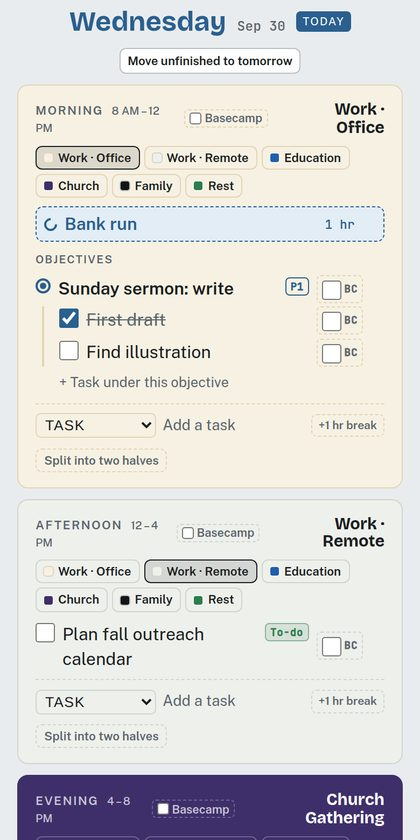
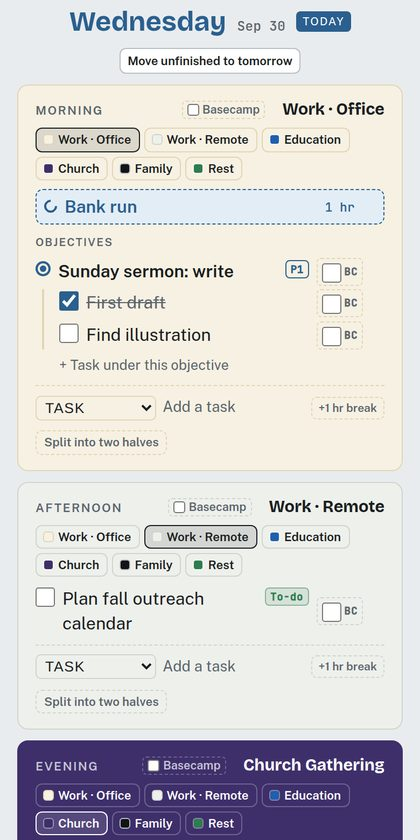
Remove block hours from block headers
Claude-Session: https://claude.ai/code/session_018fTMap8quA4yoNv84oKPib

Changed region(s): [[0.031, 0.1238, 0.9595, 1.0], [0.7738, 0.4643, 0.8976, 0.5262], [0.0619, 0.7429, 0.0929, 0.7738]]

diff --git a/app.js b/app.js
@@ -124,7 +124,7 @@
           <div class="bbody">${listHTML(hf,`${base}-${h}`,readOnly)}</div>
         </div>`).join("");
       return `<div class="block is-split" data-date="${date}" data-b="${b}">
-        <div class="bhead"><span class="bname">${label} · split <span class="bhrs">${HOURS[b]}</span></span>${shareBox(blk.share,readOnly,true)}${readOnly?"":`<button class="split-btn" data-act="merge">Merge halves</button>`}</div>
+        <div class="bhead"><span class="bname">${label} · split</span>${shareBox(blk.share,readOnly,true)}${readOnly?"":`<button class="split-btn" data-act="merge">Merge halves</button>`}</div>
         ${calHTML(date,b)}
         <div class="halves">${halves}</div>
       </div>`;
@@ -134,7 +134,7 @@
     const kept=readOnly?"":(n?`${n} item${n>1?"s":""} kept for later`:"Protected time");
     const canSplit=!readOnly&&(!mode||SPLITTABLE.includes(mode));
     return `<div class="block" data-date="${date}" data-b="${b}" ${mode?`data-mode="${mode}"`:""}>
-      <div class="bhead"><span class="bname">${label} <span class="bhrs">${HOURS[b]}</span></span>${mode?shareBox(blk.share,readOnly,true):""}${mode?`<span class="btype">${TYPE_NAME[mode]||""}</span>`:""}</div>
+      <div class="bhead"><span class="bname">${label}</span>${mode?shareBox(blk.share,readOnly,true):""}${mode?`<span class="btype">${TYPE_NAME[mode]||""}</span>`:""}</div>
       ${chipsHTML(mode,TYPES.map(t=>t[0]),readOnly,label)}
       ${calHTML(date,b)}
       <div class="bfill"><strong>${TYPE_NAME[mode]||""}</strong>${kept?`<small>${kept}</small>`:""}</div>

diff --git a/setup.html b/setup.html
@@ -104,7 +104,7 @@ footer{margin-top:28px;font-size:.88rem;color:var(--muted)}
 
   <h2 class="h2big">What it looks like</h2>
   <p class="sub">Every day is three blocks. Decide what each block is for, then fill your work blocks with objectives and tasks. <span class="sample">Sample data</span></p>
-  <figure class="shot"><img src="/img/week.jpg" width="1400" height="1081" alt="Three days of a sample week: each day has Morning, Afternoon and Evening blocks colored by type, with objectives, tasks, calendar events and a one-hour break" loading="lazy"><figcaption>The week view: off-white for office and remote work, blue for study, purple for church gatherings, black for family, green for rest.</figcaption></figure>
+  <figure class="shot"><img src="/img/week.jpg" width="1400" height="1065" alt="Three days of a sample week: each day has Morning, Afternoon and Evening blocks colored by type, with objectives, tasks, calendar events and a one-hour break" loading="lazy"><figcaption>The week view: off-white for office and remote work, blue for study, purple for church gatherings, black for family, green for rest.</figcaption></figure>
   <div class="shots2">
     <div class="stack">
       <figure class="shot"><img src="/img/summary.jpg" width="1100" height="453" alt="Week summary with block counts, guardrail pills and weekly priorities" loading="lazy"><figcaption>Your week at a glance, with guardrails that warn when rest or family time runs short, and your top priorities on top.</figcaption></figure>
